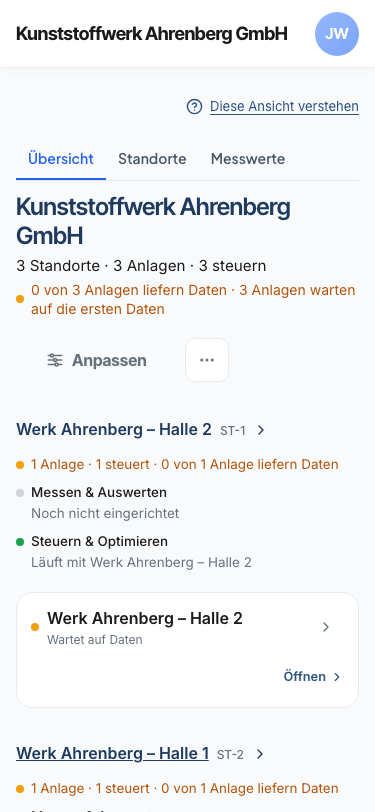
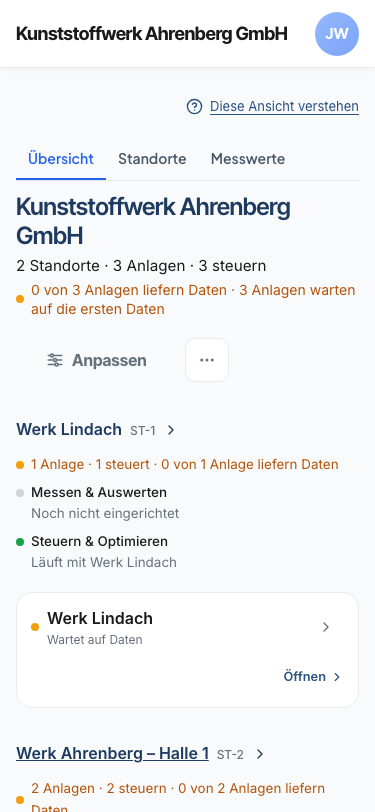
Buehne IP-20: Bytegleich-Waechter als Paarbeweis und der Weg 2 + 1 (#995)
Co-committed-by: VoltPilot Release <info@voltpilot.de>

diff --git a/frontend/portal/e2e/buehne-vorher-nachher.spec.ts b/frontend/portal/e2e/buehne-vorher-nachher.spec.ts
@@ -86,15 +86,29 @@ async function inhaltAufzeichnen(page: Page, pfad: string) {
   writeFileSync(pfad, `${JSON.stringify(inhalt, null, 2)}\n`, 'utf8');
 }
 
+// Der Bytegleich-Wächter ist ein Paarbeweis: jede Phase nimmt U1 je Breite AUFNAHMEN-mal auf,
+// run.sh sucht darin ein bytegleiches Paar. Feste Zahl, kein Abbruch beim ersten Treffer und
+// keine Schleife bis grün - die Aufnahmezahl ist nicht vom Ergebnis abhängig.
+const AUFNAHMEN = 7;
+
 for (const breite of [375, 1440] as const) {
-  test(`U1 ${PHASE} ${breite}`, async ({ page }) => {
-    const unbekannt = await mitAntworten(page, 'u1');
-    const fehler = await oeffnen(page, 'u1', breite);
-    await expect(page.getByText('Werk Ahrenberg – Halle 1').first()).toBeVisible();
-    await page.screenshot({ path: join(BILDER, `u1-${PHASE}-${breite}.png`) });
-    await inhaltAufzeichnen(page, join(BILDER, `u1-${PHASE}-${breite}.inhalt.json`));
-    expect([...unbekannt]).toEqual([]);
-    expect(fehler).toEqual([]);
+  test(`U1 ${PHASE} ${breite}`, async ({ context }) => {
+    test.setTimeout(180_000);
+    // Jede Aufnahme bekommt eine frische Seite. Sieben Bilder aus einer einzigen Seite wären
+    // künstlich korreliert und würden die gemessene Streuung verstecken statt sie abzubilden.
+    for (let nummer = 1; nummer <= AUFNAHMEN; nummer++) {
+      const page = await context.newPage();
+      const unbekannt = await mitAntworten(page, 'u1');
+      const fehler = await oeffnen(page, 'u1', breite);
+      await expect(page.getByText('Werk Ahrenberg – Halle 1').first()).toBeVisible();
+      await page.screenshot({ path: join(BILDER, `u1-${PHASE}-${breite}.aufnahme-${nummer}.png`) });
+      // Der Inhaltsvergleich urteilt über die erste Aufnahme; sichtbarer Text und Kachelmaße
+      // sind laut Labortabelle über alle Aufnahmen hinweg gleich.
+      if (nummer === 1) await inhaltAufzeichnen(page, join(BILDER, `u1-${PHASE}-${breite}.inhalt.json`));
+      expect([...unbekannt]).toEqual([]);
+      expect(fehler).toEqual([]);
+      await page.close();
+    }
   });
 
   test(`U2 ${PHASE} ${breite}`, async ({ page }) => {
@@ -112,13 +126,27 @@ for (const breite of [375, 1440] as const) {
       const dialog = page.getByRole('dialog', { name: 'Standorte einrichten' });
       await expect(dialog.getByRole('heading', { name: 'Was sich ändert' })).toBeVisible();
       const strassen = dialog.getByLabel('Straße und Hausnummer *');
-      const plz = dialog.getByLabel('PLZ');
-      const orte = dialog.getByLabel('Ort *');
-      for (let i = 0; i < await strassen.count(); i++) {
-        await strassen.nth(i).fill(i === 2 ? 'Werkstrasse 8' : `Industriestrasse ${4 + i}`);
-        await plz.nth(i).fill(i === 2 ? '84123' : '84347');
-        await orte.nth(i).fill(i === 2 ? 'Lindach' : 'Ahrenberg');
+      const karten = dialog.locator('.vp-sv-gruppe');
+      // Erst zählen, wenn es etwas zu zählen gibt. Die Überschrift steht vor dem fertig
+      // aufgebauten Dialogkörper; eine Zahl 0 ließe die Schleife nullmal laufen, und der
+      // Fehler fiele erst zwölf Zeilen später beim Bestätigen auf („Bitte ergänzen Sie
+      // Straße und Ort für jeden Standort.“).
+      await expect(strassen.first()).toBeVisible();
+      // Die Adresse hängt am NAMEN der Gruppe, nicht an ihrer Position: die Reihenfolge der
+      // Vorschläge ist keine Zusage, und die Aufzeichnung der API-Antworten ordnet genauso zu.
+      for (let i = 0; i < await karten.count(); i++) {
+        const karte = karten.nth(i);
+        const lindach = (await karte.getByLabel('Name des Standorts *').inputValue()).includes('Lindach');
+        await karte.getByLabel('Straße und Hausnummer *').fill(lindach ? 'Werkstrasse 8' : 'Industriestrasse 4');
+        await karte.getByLabel('PLZ').fill(lindach ? '84123' : '84347');
+        await karte.getByLabel('Ort *').fill(lindach ? 'Lindach' : 'Ahrenberg');
       }
+      // Der Weg 2 + 1 aus PR 985: der „Gehört zu“-Wähler legt Halle 2 zu Halle 1.
+      // Die geleerte Gruppe fällt weg, Halle 1 behält ihre Adresse - aus drei Anlagen
+      // werden ZWEI Standorte, und genau das zeigen die Bilder.
+      await dialog.getByRole('combobox', { name: 'Gehört zu: Werk Ahrenberg – Halle 2' }).click();
+      await page.getByRole('option', { name: 'Werk Ahrenberg – Halle 1' }).click();
+      await expect(strassen).toHaveCount(2);
       await dialog.locator('.dbody').evaluate((element) => { element.scrollTop = element.scrollHeight; });
       await page.screenshot({ path: join(BILDER, `u2-nachher-vorschau-${breite}.png`) });
 

diff --git a/tools/buehne-vorher-nachher/review.py b/tools/buehne-vorher-nachher/review.py
@@ -51,7 +51,7 @@ def main() -> None:
             f"U2 · Mitteilung und Ergebnis · {breite} px",
             ("Vorschau · Was sich ändert", b / f"u2-nachher-vorschau-{breite}.png"),
             ("Nach Bestätigung", b / f"u2-nachher-bestaetigt-{breite}.png"),
-            "Befund: Die gebaute Oberfläche lässt nur alle drei getrennt oder alle zusammen; die verlangte Gruppierung 2 + 1 ist nicht bedienbar. Der gezeigte echte Standardweg erzeugt deshalb drei statt zwei Standorte.",
+            "Die Vorschau fährt den Weg 2 + 1: der Wähler „Gehört zu“ legt Halle 2 zu Halle 1, die Adressfelder werden von drei auf zwei, und die Bestätigung legt zwei Standorte an.",
         ))
 
     html = f'''<!doctype html><html lang="de"><head><meta charset="utf-8"><meta name="viewport" content="width=device-width,initial-scale=1">
@@ -62,8 +62,8 @@ main{{max-width:1500px;margin:auto;padding:40px 28px 80px}} h1,h2{{font-family:"
 section{{margin:34px 0 54px}} section>header{{display:flex;gap:16px;align-items:baseline;justify-content:space-between;flex-wrap:wrap;margin-bottom:14px}} section h2{{margin:0;font-size:1.35rem}} section header p{{margin:0;max-width:850px;color:var(--vp-muted)}} .paar{{display:grid;grid-template-columns:minmax(0,1fr) minmax(0,1fr);gap:20px;align-items:start}} figure{{min-width:0;margin:0;background:var(--vp-surface);border:1px solid var(--vp-border);border-radius:16px;overflow:hidden;box-shadow:0 8px 30px rgba(30,58,95,.08)}} .bild{{overflow:auto;background:#eef1f5;padding:12px}} img{{display:block;width:100%;height:auto;border-radius:8px}} figcaption{{display:flex;gap:8px;justify-content:space-between;flex-wrap:wrap;padding:13px 16px}} figcaption span{{color:var(--vp-muted)}}
 @media(max-width:800px){{main{{padding:24px 14px 50px}}.paar{{grid-template-columns:1fr}}}}
 </style></head><body><main><h1>Was Bestandskunden am ersten Tag vorfinden</h1>
-<div class="intro"><p>Der Ein-Anlagen-Kunde landet nach dem Rollout weiterhin in seinem vertrauten Cockpit; die neue Struktur wird nicht ungefragt eingerichtet.</p><p>Der Mehr-Anlagen-Kunde sieht erstmals drei offene Anlagen und bekommt vor jeder Änderung eine Vorschau.</p><p>Erst die Bestätigung ändert die Startseite zur Unternehmens-Übersicht; Steuerung, Fahrpläne und Freigaben bleiben davon getrennt.</p></div>
-<aside class="ehrlich"><h2>Was an diesen Bildern echt ist – und was nicht</h2><p><strong>Echt:</strong> `main`- und UEMS-Portal aus ihrem jeweiligen Quellstand, echte API-Antworten aus MockMvc gegen eine Wegwerf-TimescaleDB, 168 `main`-Migrationen, danach UEMS-Migrationen und die drei Bestandsläufer. Die Bilder sind Playwright-Aufnahmen dieser Portal-Builds.</p><p><strong>Ersetzt:</strong> Keycloak-Anmeldung und Netztransport. Die Antworten sind für den Bildlauf aufgezeichnet; Live-Telemetrie wird nicht erfunden und bleibt daher leer oder nicht verfügbar.</p><p class="befund">U2 weicht vom Referenzfall ab: Die Oberfläche kann drei Vorschläge nicht als 2 + 1 gruppieren. Der dokumentierte Standardweg endet sichtbar mit drei Standorten statt zwei; die Bühne repariert das absichtlich nicht.</p></aside>
+<div class="intro"><p>Der Ein-Anlagen-Kunde landet nach dem Rollout weiterhin in seinem vertrauten Cockpit; die neue Struktur wird nicht ungefragt eingerichtet.</p><p>Der Mehr-Anlagen-Kunde sieht erstmals drei offene Anlagen und bekommt vor jeder Änderung eine Vorschau; darin legt er zwei Hallen zu einem Standort zusammen.</p><p>Erst die Bestätigung ändert die Startseite zur Unternehmens-Übersicht; Steuerung, Fahrpläne und Freigaben bleiben davon getrennt.</p></div>
+<aside class="ehrlich"><h2>Was an diesen Bildern echt ist – und was nicht</h2><p><strong>Echt:</strong> `main`- und UEMS-Portal aus ihrem jeweiligen Quellstand, echte API-Antworten aus MockMvc gegen eine Wegwerf-TimescaleDB, 168 `main`-Migrationen, danach UEMS-Migrationen und die drei Bestandsläufer. Die Bilder sind Playwright-Aufnahmen dieser Portal-Builds.</p><p><strong>Ersetzt:</strong> Keycloak-Anmeldung und Netztransport. Die Antworten sind für den Bildlauf aufgezeichnet; Live-Telemetrie wird nicht erfunden und bleibt daher leer oder nicht verfügbar.</p><p class="befund">Neu an diesen Bildern: Die Vorschau legt Halle 2 zu Halle 1 – aus drei Anlagen werden zwei Standorte.</p><p class="befund">Der Ein-Anlagen-Kunde: vorher und nachher bytegleich – geprüft an 7 Aufnahmen je Seite.</p></aside>
 {''.join(abschnitte)}</main></body></html>'''
     args.output.write_text(html, encoding="utf-8")
 

diff --git a/services/api/src/test/java/com/voltpilot/api/uems/UemsBestandSteuerungAusEinemStueckTest.java b/services/api/src/test/java/com/voltpilot/api/uems/UemsBestandSteuerungAusEinemStueckTest.java
@@ -528,28 +528,46 @@ class UemsBestandSteuerungAusEinemStueckTest {
         if (!CAPTURE) {
             JsonNode vorschlag = JSON.readTree(apiAntwort("GET", "/api/v1/standorte/vorschlag", U2_TENANT, null)
                     .path("body").asText());
+            // Die Aufzeichnung faehrt denselben Weg wie die Buehne: der "Gehoert zu"-Waehler aus
+            // PR 985 legt Halle 2 zu Halle 1, die geleerte Gruppe faellt weg. Aus drei
+            // vorgeschlagenen Anlagen werden ZWEI Standorte - der Stand nach der Bestaetigung
+            // muss zu den Bildern passen, sonst zeigt das Portal drei.
+            // Zugeordnet wird ueber den NAMEN, nicht ueber die Position: die Reihenfolge der
+            // Vorschlaege ist keine Zusage, und ein Index-Griff paart sonst die falschen zwei.
             var gruppen = JSON.createArrayNode();
-            int nr = 0;
+            com.fasterxml.jackson.databind.node.ArrayNode halle1Ids = null;
+            var nachHalle1 = new java.util.ArrayList<JsonNode>();
             for (JsonNode vorgeschlagen : vorschlag.path("gruppen")) {
+                String name = vorgeschlagen.path("name").asText();
+                if (name.contains("Halle 2")) {
+                    nachHalle1.add(vorgeschlagen);
+                    continue;
+                }
+                boolean lindach = name.contains("Lindach");
                 var gruppe = JSON.createObjectNode();
-                gruppe.put("name", vorgeschlagen.path("name").asText());
+                gruppe.put("name", name);
                 gruppe.put("zeitzone", vorgeschlagen.path("zeitzone").asText("Europe/Berlin"));
                 var adresse = gruppe.putObject("adresse");
-                adresse.put("strasse", nr == 2 ? "Werkstrasse 8" : "Industriestrasse " + (4 + nr));
-                adresse.put("plz", nr == 2 ? "84123" : "84347");
-                adresse.put("ort", nr == 2 ? "Lindach" : "Ahrenberg");
+                adresse.put("strasse", lindach ? "Werkstrasse 8" : "Industriestrasse 4");
+                adresse.put("plz", lindach ? "84123" : "84347");
+                adresse.put("ort", lindach ? "Lindach" : "Ahrenberg");
                 adresse.put("land", "DE");
                 var ids = gruppe.putArray("vorschlagIds");
                 vorgeschlagen.path("anlagen").forEach(a -> ids.add(a.path("vorschlagId").asText()));
+                if (name.contains("Halle 1")) halle1Ids = ids;
                 gruppen.add(gruppe);
-                nr++;
+            }
+            assertThat(halle1Ids).as("die Gruppe Halle 1 traegt die Zusammenlegung").isNotNull();
+            for (JsonNode spaet : nachHalle1) {
+                final var ziel = halle1Ids;
+                spaet.path("anlagen").forEach(a -> ziel.add(a.path("vorschlagId").asText()));
             }
             var anfrage = JSON.createObjectNode();
             anfrage.set("gruppen", gruppen);
             var post = apiAntwort("POST", "/api/v1/standorte/vorschlag/bestaetigen", U2_TENANT,
                     JSON.writeValueAsString(anfrage));
             assertThat(post.path("status").asInt()).as(post.toPrettyString()).isEqualTo(200);
-            assertThat(JSON.readTree(post.path("body").asText()).path("standortIds")).hasSize(3);
+            assertThat(JSON.readTree(post.path("body").asText()).path("standortIds")).hasSize(2);
             ((com.fasterxml.jackson.databind.node.ObjectNode) u2.path("vorBestaetigung").path("antworten"))
                     .set("POST /api/v1/standorte/vorschlag/bestaetigen", post);
             u2.set("nachBestaetigung", portalStand(U2_TENANT, List.of(U2_HALLE_1, U2_HALLE_2, U2_LINDACH)));

diff --git a/tools/buehne-vorher-nachher/README.md b/tools/buehne-vorher-nachher/README.md
@@ -51,6 +51,31 @@ Einfrieren reiner Endlos-Animationen weiterhin Bytegleichheit. Die in B9
 genannten Einstiege sind additiv erreichbar und dürfen die gezeigte
 Cockpit-Startansicht nicht verändern.
 
+## Der Bytegleich-Wächter ist ein Paarbeweis
+
+Die Zusage bleibt „bytegleich“: keine Pixeltoleranz, keine Maske, kein
+Wiederholen bis grün. Die Spec nimmt U1 je Phase und Breite aber **siebenmal**
+auf – eine feste Zahl, unabhängig vom Ergebnis, jede Aufnahme auf einer frischen
+Seite. Grün ist der Lauf, wenn **mindestens ein Vorher-Bild bytegleich zu
+mindestens einem Nachher-Bild** ist.
+
+Warum das genauso streng ist wie der frühere Einzelvergleich: die unten
+gemessene Streuung ist Rasterrauschen derselben Seite – gleicher sichtbarer
+Text, gleiche Kachelmaße, bei 1440 px in jeder Variante 30 × A. Ein bytegleiches
+Paar kann es nur geben, wenn zwischen vorher und nachher **kein
+deterministischer Unterschied** besteht: ein echter Unterschied, und sei es ein
+Pixel, steckt in JEDER Nachher-Aufnahme und macht JEDES Paar ungleich. Der
+Paarbeweis ist deshalb genauso streng wie der Einzelvergleich, nur nicht mehr
+vom Zufall abhängig.
+
+So liest sich ein roter Lauf: `run.sh` druckt **immer** die Verteilung beider
+Seiten (SHA-256-Kürzel × Anzahl), auch bei grün. Findet er in 7 × 7 kein Paar,
+war der Inhaltsvergleich davor bereits grün – dann liegt der Unterschied nicht
+in der Rasterung, sondern unterhalb des Textvergleichs (Farbe, Position, Rand),
+und das ist ein echter Befund. Abgelegt und in `bilder/` gepflegt wird genau das
+gefundene bytegleiche Paar als `u1-vorher-<breite>.png` und
+`u1-nachher-<breite>.png`; die übrigen Aufnahmen bleiben im Arbeitsordner.
+
 ## Bekannter Befund: Aufnahme bei 375 px nicht deterministisch
 
 Am 19.09.2026 wurde jede Variante mit einmal aufgezeichneten API-Antworten und
@@ -80,10 +105,13 @@ Zusätzlich zeichnet die Spec für U1 sichtbaren Text und Maße aller sichtbaren
 zuerst bytegleich. Ein roter PNG-Vergleich sagt dadurch ausdrücklich, ob sich
 Inhalt bzw. Layout unterscheiden oder nur Rasterung/PNG-Ausgabe.
 
-## Befund U2
+## U2 fährt den Weg 2 + 1
 
 Der entschiedene Referenzfall verlangt zwei Standorte: AN-1 und AN-2 gemeinsam,
-AN-3 separat. Die gebaute Vorschau bietet bei drei Gruppen jedoch nur „alle
-zusammenlegen“ oder „wieder getrennt lassen“. Eine gezielte Gruppierung 2 + 1
-ist nicht bedienbar. Die Bühne dokumentiert deshalb den echten Standardweg mit
-drei Standorten und repariert diese Produktabweichung ausdrücklich nicht.
+AN-3 separat. Seit PR 985 steht je Anlage ein Wähler „Gehört zu: …“ in der
+Vorschau; die Bühne benutzt ihn: sie füllt die Adressen über den **Namen** der
+Gruppe – nie über die Position –, legt Halle 2 zu Halle 1 (die Adressfelder
+werden dabei von drei auf zwei) und bestätigt erst danach. Die Aufzeichnung der
+API-Antworten (`buehneVorherNachherAntwortenAufzeichnen`) fährt denselben Weg
+über den Namen und bestätigt zwei Gruppen, damit der Stand nach der Bestätigung
+zu den Bildern passt: `standortIds` hat Größe 2.

diff --git a/docs/agents/root/uems-freigabe.md b/docs/agents/root/uems-freigabe.md
@@ -71,6 +71,10 @@ Wer sie als Tor behandelt, baut eine Sperre, die es mit E1 = B nicht gibt.
 - **Die geteilte E2E-Bühne trägt fremde Specs.** Wer `startansicht.tsx`, eine `*-buehne.ts`
   oder gemeinsame Fixtures anfasst, fährt **alle** Specs, die sie lesen, nicht nur die
   eigenen (PR 980) — `rg -l "<bühnen-datei>" frontend/portal/e2e`.
+- **Der Bytegleich-Wächter der Bestandskunden-Bühne ist ein Paarbeweis.** U1 wird je Phase
+  und Breite siebenmal aufgenommen; grün ist ein bytegleiches Paar aus 7 × 7. Rot heißt
+  deshalb nicht „Rasterrauschen“, sondern echter Unterschied — die Zusage bleibt ohne
+  Toleranz und ohne Maske ([Werkzeug-LIESMICH](../../../tools/buehne-vorher-nachher/README.md)).
 - **Die Mess-Auswahl ist der scharfe Punkt an alten Boxen.** Der Go-Core liest sie strikt
   (`DisallowUnknownFields`): ein einziges neues Feld am `MeasurementConfigPublisher`
   bricht jede Box im Feld (PR 982) — [uems-nw3-box-image.md](uems-nw3-box-image.md).
